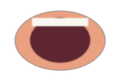
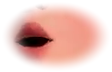
viseme-demo v2: real mouth sprites cut from nova-hello.mp4 + fixed anchor track
- sprites are now HER real rendered mouth (tracked crops from 81s of her
  singing), color-matched + feathered, mouth-only patch to avoid face-warp
- anchor-track.json restored to full-radius track (parallel session's
  clipped +-24px version was accidentally committed; her sway peaks at 96px)
- verdict material: on a still head the sprites read native; the loop's
  3D head ROTATION still shows as tilt at sway peaks (translation-only track)

diff --git a/viseme-demo/make_sprites_real.py b/viseme-demo/make_sprites_real.py
@@ -1,0 +1,110 @@
+# VISEME-DEMO v2: cut the 12 mouth sprites from HER REAL RENDERED MOUTH.
+# Source: nova-hello.mp4 (81s of her singing/talking, face large and frontal).
+# The first sprite set was drawn with code and read as a sticker — this replaces
+# it with real pixels: tracked mouth crops, color-matched to the idle_sway face,
+# feathered alpha, scaled to the idle loop's mouth. Same filenames as v1 so
+# viseme-demo.html needs no change (meta.json anchor w/h updated to 142x105).
+#
+# Frame picks (at 4fps over the clip) were chosen by eye from a contact sheet:
+# each is a clean, near-frontal exemplar of that mouth shape.
+import json
+import os
+import subprocess
+
+import numpy as np
+from PIL import Image
+
+HERE = os.path.dirname(os.path.abspath(__file__))
+HELLO = os.path.join(HERE, "..", "nova-hello.mp4")
+IDLE_FRAME = os.path.join(HERE, "frame.png")
+OUT = os.path.join(HERE, "visemes")
+
+HW, HH = 832, 1104
+FPS = 4
+REF_CX, REF_CY = 435, 335    # mouth center on the ref frame (t=32.6s)
+TW, TH = 150, 110            # track template: mouth+nose
+R = 140
+
+# viseme -> harvest frame index (at 4fps); 292 doubles as mbp (closed lips)
+PICK = {"rest": 292, "mbp": 292, "small": 284, "E": 156, "I": 271,
+        "smile": 170, "O": 126, "U": 194, "A": 127, "wide": 213,
+        "L": 231, "fv": 161}
+
+CW, CH = 150, 96             # source crop: MOUTH ONLY — a bigger patch drags the
+                             # source clip's nose/chin angle along and warps her face
+SCALE = 0.75                 # nova-hello mouth ~130px wide vs idle ~100px
+
+need = sorted(set(PICK.values()))
+grab = {}
+proc = subprocess.Popen(
+    ["ffmpeg", "-v", "error", "-i", HELLO, "-vf", f"fps={FPS}",
+     "-f", "rawvideo", "-pix_fmt", "rgb24", "-"], stdout=subprocess.PIPE)
+frames = []
+i = 0
+while True:
+    buf = proc.stdout.read(HW * HH * 3)
+    if len(buf) < HW * HH * 3:
+        break
+    frames.append(np.frombuffer(buf, dtype=np.uint8).reshape(HH, HW, 3))
+    i += 1
+proc.wait()
+
+# track the mouth in each picked frame (same FFT SSD as make_anchor_track.py)
+ref = frames[int(32.6 * FPS)].astype(np.float32).mean(2)
+tpl = ref[REF_CY - TH // 2:REF_CY + TH // 2, REF_CX - TW // 2:REF_CX + TW // 2]
+tpl_e = float((tpl ** 2).sum())
+x0, x1 = REF_CX - TW // 2 - R, REF_CX + TW // 2 + R
+y0, y1 = REF_CY - TH // 2 - R, REF_CY + TH // 2 + R
+
+def mouth_center(fid):
+    g = frames[fid].astype(np.float32).mean(2)
+    reg = g[y0:y1, x0:x1]
+    rh, rw = reg.shape
+    fr = np.fft.rfft2(reg)
+    ft = np.fft.rfft2(tpl, s=(rh, rw))
+    corr = np.fft.irfft2(fr * np.conj(ft), s=(rh, rw))
+    ii = np.pad(np.cumsum(np.cumsum(reg ** 2, 0), 1), ((1, 0), (1, 0)))
+    ny, nx = rh - TH + 1, rw - TW + 1
+    win = (ii[TH:TH + ny, TW:TW + nx] - ii[0:ny, TW:TW + nx]
+           - ii[TH:TH + ny, 0:nx] + ii[0:ny, 0:nx])
+    ssd = win - 2 * corr[:ny, :nx] + tpl_e
+    dy, dx = np.unravel_index(np.argmin(ssd), ssd.shape)
+    return REF_CX + int(dx - R), REF_CY + int(dy - R)
+
+idle = np.asarray(Image.open(IDLE_FRAME).convert("RGB"))
+ICX, ICY = 522, 507
+
+def skin_mean(img, cx, cy, r_in=55, r_out=85):
+    yy, xx = np.mgrid[0:img.shape[0], 0:img.shape[1]]
+    d = np.sqrt((xx - cx) ** 2 + (yy - cy) ** 2)
+    px = img[(d > r_in) & (d < r_out)].astype(np.float32)
+    m = (px.mean(1) > 90) & (px.mean(1) < 235)
+    return px[m].mean(0)
+
+tgt_skin = skin_mean(idle, ICX, ICY)
+
+for name, fid in PICK.items():
+    mx, my = mouth_center(fid)
+    my += 6                                     # lips sit slightly low in the box
+    crop = frames[fid][my - CH // 2:my + CH // 2,
+                       mx - CW // 2:mx + CW // 2].astype(np.float32)
+    src_skin = skin_mean(frames[fid], mx, my)
+    crop = np.clip(crop * (tgt_skin / src_skin)[None, None, :], 0, 255)
+    im = Image.fromarray(crop.astype(np.uint8)).resize(
+        (int(CW * SCALE), int(CH * SCALE)), Image.LANCZOS)
+    w, h = im.size
+    yy, xx = np.mgrid[0:h, 0:w]
+    nx = (xx - w / 2) / (w / 2)
+    ny = (yy - h / 2) / (h / 2)
+    d = np.sqrt(nx ** 2 + ny ** 2)
+    a = np.clip((1.0 - d) / 0.5, 0, 1)          # small solid center, wide feather
+    a = (np.sin(a * np.pi / 2) ** 2 * 255).astype(np.uint8)
+    Image.fromarray(np.dstack([np.asarray(im), a]), "RGBA").save(
+        os.path.join(OUT, name + ".png"))
+    print(name, fid, f"({w}x{h})")
+
+meta = {"anchor": {"cx": ICX, "cy": ICY, "w": int(CW * SCALE), "h": int(CH * SCALE)},
+        "video": {"w": 1076, "h": 1924},
+        "sprites": sorted(PICK)}
+json.dump(meta, open(os.path.join(OUT, "meta.json"), "w"), indent=1)
+print("meta updated: anchor", meta["anchor"])
